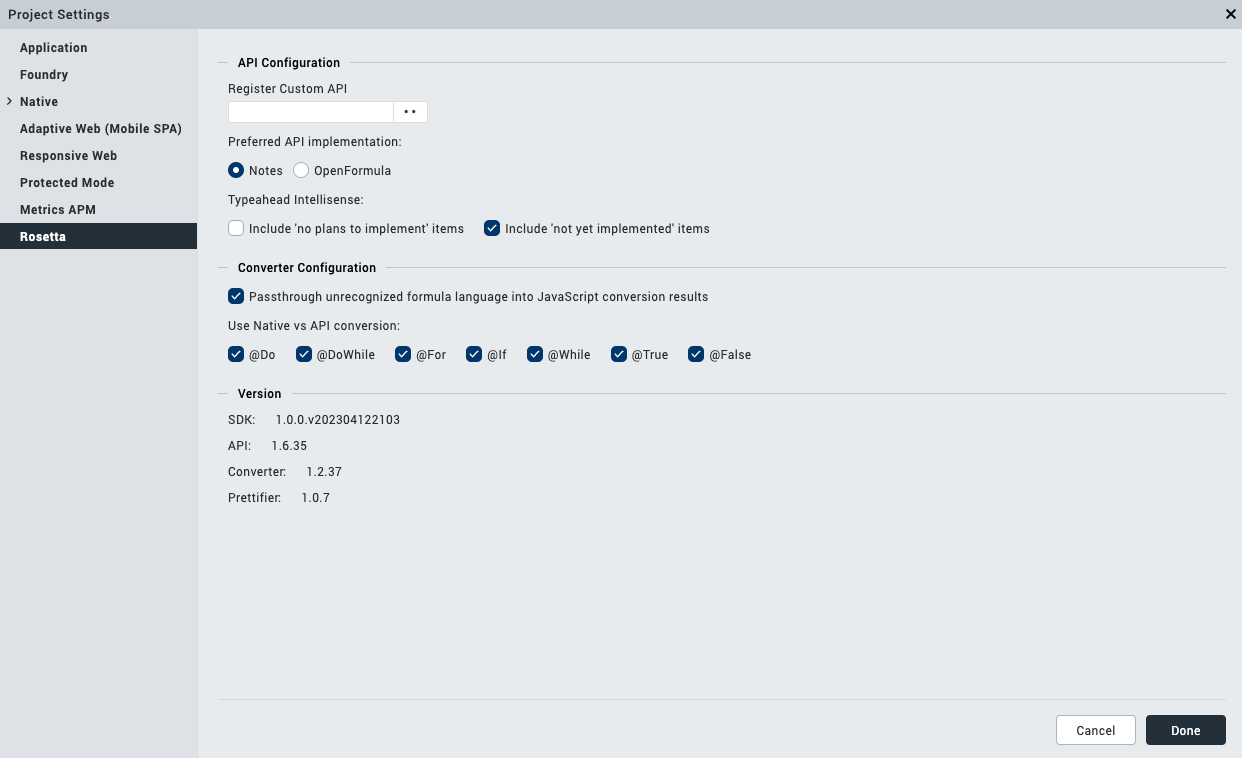
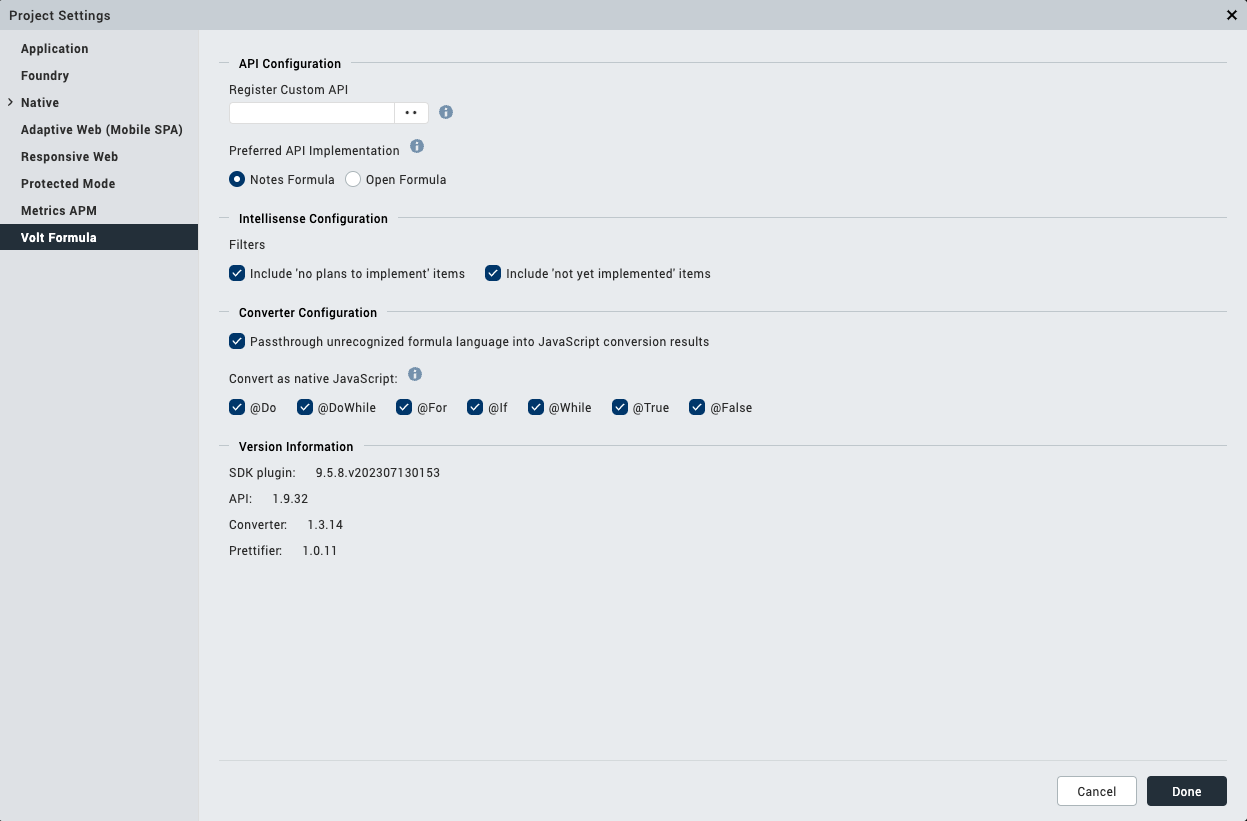
voltformula config changes

diff --git a/docs/howto/configrosetta.md b/docs/howto/configrosetta.md
@@ -12,18 +12,20 @@ This procedure describes how to configure the Rosetta API based on what you need
 
 ## To configure settings in Rosetta API
 
-
 1. Click the **Project Settings** icon.
     
     ![settings](../assets/images/vfrosettasetting.png){: style="height:80%;width:80%"}
 
-2. In the **Project Setting** window, click the **Rosetta** tab.
+2. In the **Project Setting** window, click the **Rosetta** tab
+
+    !!!Tips
+        When you hover the **info** toolip icon beside each of the label or textbox, you can see the description of each function.
     
     ![settings](../assets/images/vfsetting.png)
 
     |Rosetta area | Rosetta area sections | Description|
     |-------------|------------|------------|
-    |**API Configuration**| |Allows you to configure options specific to the APIs' implementation and execution.|
+    |**API Configuration**| |Allows you to configure options specific to the APIs' implementation and execution.  |
     | |**Register Custom API**|Allows you to upload a file with custom APIs. Refer to the [API reference documentation](https://help.hcltechsw.com/docs/voltmxgo/javadoc/index.html){: target="_blank"} under the rosetta-api module for method `registerAPI` for more details on expected file format and parameters.|
     | |**Preferred API implementation**| Allows you to specify whether to execute the Notes Formula or the OpenFormula implementation when calling an API method, which has an existing implementation in either formula language. Example, `@Abs()` and `=ABS()` are encapsulated by Rosettas `abs()` method. Selecting `Notes` option makes Rosetta call the Notes implementation. Usually, either implementation behaves the same. But in other cases, there may be differences in parameters, execution, or returned results. For example, most Notes formula functions allow lists to be passed in as arguments while OpenFormula allows lists as ranges for only a number of methods. Refer to the [API reference documentation](https://help.hcltechsw.com/docs/voltmxgo/javadoc/index.html){: target="_blank"} for details on each API.|
     | |**Typeahead Intellisense**| Allows you to include names of formulas that won't be implemented and not yet implemented in the formula list IntelliSense. When **no plans to implement items** is selected, the names of the formulas that won't be implemented are shown as ~~strikethrough text~~. If **not yet implemented items** is selected, the shown names of the formulas not yet implemented are greyed-out.|
